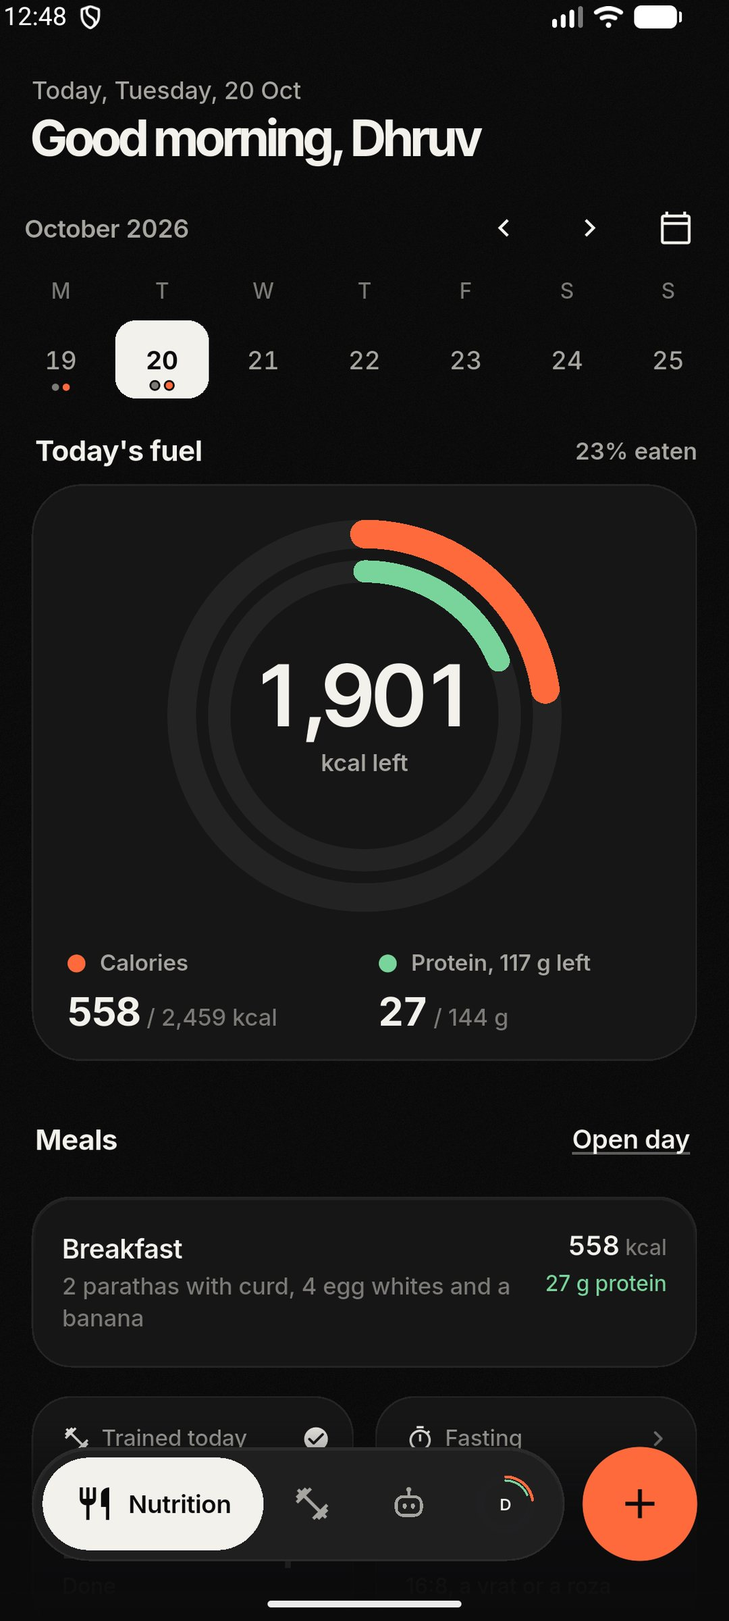
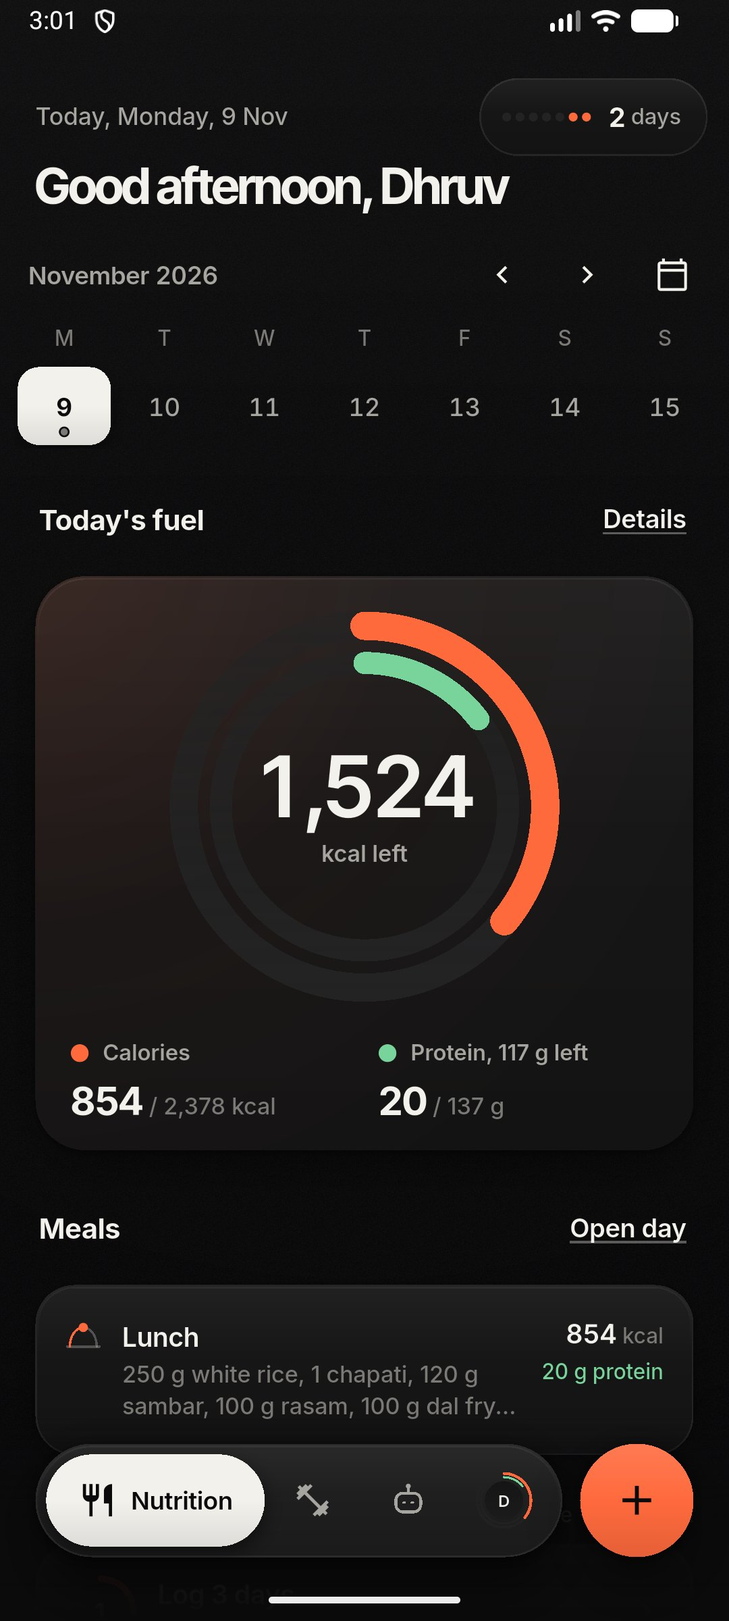
site: snap and add-meal shots from a real phone, beta 10 rebuilt
New Snap a meal screenshot beside the snap paragraph and in the press
kit; Add meal shot shows the Photo and Barcode pills; press home image
matches the site. APKs rebuilt with the pill and roti fixes, checksums
updated.

diff --git a/site/index.html b/site/index.html
@@ -46,7 +46,7 @@
 <link rel="stylesheet" href="assets/css/site.css">
 <link rel="preload" as="image" href="assets/img/app-home-540.webp" imagesrcset="assets/img/app-home-540.webp 540w, assets/img/app-home-810.webp 810w" imagesizes="(min-width: 760px) 26vw, 300px" fetchpriority="high">
 <script>(function(d){d.classList.add('js');try{if(sessionStorage.getItem('kx-wipe')){sessionStorage.removeItem('kx-wipe');if(!matchMedia('(prefers-reduced-motion: reduce)').matches)d.classList.add('wiping')}}catch(e){}})(document.documentElement)</script>
-<script type="application/ld+json">{"@context":"https://schema.org","@graph":[{"@type":"Organization","@id":"https://dhruvgupta-24.github.io/Kynetix/#org","name":"Kynetix","url":"https://dhruvgupta-24.github.io/Kynetix/","logo":{"@type":"ImageObject","url":"https://dhruvgupta-24.github.io/Kynetix/assets/img/icon-512.png","width":512,"height":512},"email":"kynetix.app@gmail.com","founder":{"@id":"https://dhruvgupta-24.github.io/Kynetix/#founder"},"sameAs":["https://github.com/dhruvgupta-24/Kynetix"],"contactPoint":{"@type":"ContactPoint","email":"kynetix.app@gmail.com","contactType":"customer support","availableLanguage":["English"]}},{"@type":"Person","@id":"https://dhruvgupta-24.github.io/Kynetix/#founder","name":"Dhruv Gupta","jobTitle":"Founder and developer","worksFor":{"@id":"https://dhruvgupta-24.github.io/Kynetix/#org"},"homeLocation":{"@type":"Country","name":"India"}},{"@type":"WebSite","@id":"https://dhruvgupta-24.github.io/Kynetix/#website","url":"https://dhruvgupta-24.github.io/Kynetix/","name":"Kynetix","inLanguage":"en-IN","description":"Official website of Kynetix, an Android calorie and workout tracker built for Indian food.","publisher":{"@id":"https://dhruvgupta-24.github.io/Kynetix/#org"}},{"@type":"MobileApplication","@id":"https://dhruvgupta-24.github.io/Kynetix/#app","name":"Kynetix","url":"https://dhruvgupta-24.github.io/Kynetix/","description":"Kynetix is an Android app for calorie, protein and workout tracking, built around Indian food. You log meals in plain words like \"2 roti and dal\", log your sets and personal records, and ask Kyno, an AI coach that reads both. It is free during early access, has no ads, and is made in India by Dhruv Gupta.","operatingSystem":"Android","applicationCategory":"HealthApplication","applicationSubCategory":"Calorie counter and workout tracker","inLanguage":"en-IN","image":"https://dhruvgupta-24.github.io/Kynetix/assets/img/og-home.png","screenshot":["https://dhruvgupta-24.github.io/Kynetix/assets/press/kynetix-home.jpg","https://dhruvgupta-24.github.io/Kynetix/assets/press/kynetix-meal.jpg","https://dhruvgupta-24.github.io/Kynetix/assets/press/kynetix-workout.jpg","https://dhruvgupta-24.github.io/Kynetix/assets/press/kynetix-kyno-answer.jpg","https://dhruvgupta-24.github.io/Kynetix/assets/press/kynetix-train.jpg","https://dhruvgupta-24.github.io/Kynetix/assets/press/kynetix-done.jpg"],"featureList":["Log Indian meals in plain words","Barcode scanning with Open Food Facts","Calorie and protein targets that follow training days","Adaptive targets that learn your real maintenance from your weight trend (opt in)","Workout logging with sets, reps, supersets, warm-ups, a plate calculator, rest timers and personal records","Kyno, an AI coach that reads meals and workouts","Fasting timer, micronutrients and a smoothed weight trend","Health Connect: steps, weight, sleep and HRV, read only","Home screen widgets in four sizes","Share cards for finished sessions","Export all your data as JSON and CSV","Import workouts from Strong or Hevy","Works offline, backs up to the cloud"],"offers":{"@type":"Offer","price":"0","priceCurrency":"INR","availability":"https://schema.org/InStock","description":"Free during early access. Android beta available to download now; Google Play coming soon."},"downloadUrl":"https://github.com/dhruvgupta-24/Kynetix/releases/download/v1.0.0-beta.10/kynetix-1.0.0-beta.10-arm64-v8a.apk","installUrl":"https://dhruvgupta-24.github.io/Kynetix/download/","softwareVersion":"1.0.0-beta.10","fileSize":"41.2 MB","datePublished":"2026-11-09","releaseNotes":"Snap a meal: point at your plate and Kyno names each food and sizes it. Teen requests use only AI services that allow teens, with extra safety rules: no dieting, fasting or supplement advice. Kynetix is open to everyone 13 and up; under 18, a parent says yes through a link first. Install right over your current app. No need to uninstall; your data stays put.","author":{"@id":"https://dhruvgupta-24.github.io/Kynetix/#founder"},"publisher":{"@id":"https://dhruvgupta-24.github.io/Kynetix/#org"},"countriesSupported":"IN"},{"@type":"WebPage","@id":"https://dhruvgupta-24.github.io/Kynetix/#webpage","url":"https://dhruvgupta-24.github.io/Kynetix/","name":"Kynetix: Indian Calorie Counter and Workout Tracker App","description":"Kynetix is an Android calorie and workout tracker built for Indian food. Log meals in plain words, track sets and PRs, and ask Kyno, an AI coach. Free.","inLanguage":"en-IN","isPartOf":{"@id":"https://dhruvgupta-24.github.io/Kynetix/#website"},"about":{"@id":"https://dhruvgupta-24.github.io/Kynetix/#app"},"primaryImageOfPage":{"@type":"ImageObject","url":"https://dhruvgupta-24.github.io/Kynetix/assets/img/og-home.png","width":1200,"height":630},"dateModified":"2026-11-06"},{"@type":"FAQPage","@id":"https://dhruvgupta-24.github.io/Kynetix/#faq","url":"https://dhruvgupta-24.github.io/Kynetix/#faq","inLanguage":"en-IN","isPartOf":{"@id":"https://dhruvgupta-24.github.io/Kynetix/#webpage"},"mainEntity":[{"@type":"Question","name":"How do I count calories in Indian food like dal and roti?","acceptedAnswer":{"@type":"Answer","text":"Type the meal the way you would say it, for example \"2 roti, 1 katori dal, aloo sabzi\", and Kynetix estimates the calories and protein for each item. Indian portions like katori, roti, bowl and plate are understood, and once you correct a portion it remembers how you eat it."}},{"@type":"Question","name":"Is Kynetix free?","acceptedAnswer":{"@type":"Answer","text":"Yes. Kynetix is free during early access, with no ads, and your data is never sold."}},{"@type":"Question","name":"What is Kyno?","acceptedAnswer":{"@type":"Answer","text":"Kyno is the AI coach inside Kynetix. It reads your recent meals, workouts, steps and weight, then answers questions like what to eat to hit your protein today or how your week is going. Its numbers are estimates and it is not a doctor."}},{"@type":"Question","name":"Does Kynetix work with Health Connect?","acceptedAnswer":{"@type":"Answer","text":"Yes. With your permission, Kynetix reads steps, weight, sleep and heart rate variability (HRV) from Health Connect on Android to keep your targets honest. It is read only and never writes to Health Connect."}},{"@type":"Question","name":"Can Kynetix log meals from a photo?","acceptedAnswer":{"@type":"Answer","text":"You can send Kyno a photo of your plate or a menu and ask what fits your day. For logging, typing the meal in plain words or scanning a barcode is the quickest and most accurate route, and photos you send are not stored."}},{"@type":"Question","name":"Can I scan barcodes on packaged food?","acceptedAnswer":{"@type":"Answer","text":"Yes. Scan the barcode and Kynetix looks the product up on Open Food Facts, so you log the exact pack. You can also save your own products and quick-add meals you eat often."}},{"@type":"Question","name":"Does Kynetix track workouts and personal records?","acceptedAnswer":{"@type":"Answer","text":"Yes. Log sets, reps and weight with rest timers, supersets, warm-up sets and a plate calculator, follow a split like push pull legs, and Kynetix spots personal records as you lift. Exercises you create stay in your library. Kyno suggests the next weight from your own history."}},{"@type":"Question","name":"Do my calorie targets adjust to my weight?","acceptedAnswer":{"@type":"Answer","text":"If you want them to. Switch on Adapt to my weight trend in Settings and Kynetix learns your real maintenance calories from what you log and your weigh-ins. It blends that with the formula by how much data you have, keeps it within 30% of the formula, moves at most once a week and tells you why in plain words."}},{"@type":"Question","name":"Can I export my data, or bring my workouts from Strong or Hevy?","acceptedAnswer":{"@type":"Answer","text":"Yes. Settings > Export my data gives you one JSON file with everything, plus CSV files for meals, workouts and weight. You can also import workouts from a Strong or Hevy CSV export: pounds are converted, exercises Kynetix doesn't know become your own custom exercises, and importing the same file twice doesn't duplicate anything."}},{"@type":"Question","name":"Does Kynetix work offline?","acceptedAnswer":{"@type":"Answer","text":"Yes. Everything saves on your phone first, so logging works without a signal. When you are back online it backs up to the cloud, and workouts that haven't synced yet keep retrying until they land."}},{"@type":"Question","name":"Does Kynetix have home screen widgets?","acceptedAnswer":{"@type":"Answer","text":"Yes. There are four Android home screen widgets, 2x2, 4x2, 2x4 and 4x4, showing the calories and protein you have left, with macros and a Log meal button on the larger sizes."}},{"@type":"Question","name":"Is my data private, and can I delete my account?","acceptedAnswer":{"@type":"Answer","text":"Yes. There are no ads, no data selling and no third-party trackers or analytics; simple usage stats stay in Kynetix's own database. You can export everything from Settings > Export my data, and delete your account and all of its data from inside the app at any time, or by email using the delete account page."}},{"@type":"Question","name":"Is Kynetix available on iPhone?","acceptedAnswer":{"@type":"Answer","text":"Not yet. Kynetix is Android first, and an iPhone version is on the roadmap with no date yet."}},{"@type":"Question","name":"Can I download Kynetix now?","acceptedAnswer":{"@type":"Answer","text":"Yes. The Android beta is free to download from the Kynetix download page as an APK, with step-by-step install instructions. Google Play is coming soon; when it arrives, you sign in with the same account and everything is there."}},{"@type":"Question","name":"When will Kynetix be on Google Play?","acceptedAnswer":{"@type":"Answer","text":"Soon, with no public date yet. Until then, the Android beta installs from the Kynetix download page, and the app tells you when the Play version is live."}},{"@type":"Question","name":"Who makes Kynetix?","acceptedAnswer":{"@type":"Answer","text":"Kynetix is made by Dhruv Gupta, an independent developer in India. You can reach him at kynetix.app@gmail.com, or from inside the app under Profile > Talk to us."}}]}]}</script>
+<script type="application/ld+json">{"@context":"https://schema.org","@graph":[{"@type":"Organization","@id":"https://dhruvgupta-24.github.io/Kynetix/#org","name":"Kynetix","url":"https://dhruvgupta-24.github.io/Kynetix/","logo":{"@type":"ImageObject","url":"https://dhruvgupta-24.github.io/Kynetix/assets/img/icon-512.png","width":512,"height":512},"email":"kynetix.app@gmail.com","founder":{"@id":"https://dhruvgupta-24.github.io/Kynetix/#founder"},"sameAs":["https://github.com/dhruvgupta-24/Kynetix"],"contactPoint":{"@type":"ContactPoint","email":"kynetix.app@gmail.com","contactType":"customer support","availableLanguage":["English"]}},{"@type":"Person","@id":"https://dhruvgupta-24.github.io/Kynetix/#founder","name":"Dhruv Gupta","jobTitle":"Founder and developer","worksFor":{"@id":"https://dhruvgupta-24.github.io/Kynetix/#org"},"homeLocation":{"@type":"Country","name":"India"}},{"@type":"WebSite","@id":"https://dhruvgupta-24.github.io/Kynetix/#website","url":"https://dhruvgupta-24.github.io/Kynetix/","name":"Kynetix","inLanguage":"en-IN","description":"Official website of Kynetix, an Android calorie and workout tracker built for Indian food.","publisher":{"@id":"https://dhruvgupta-24.github.io/Kynetix/#org"}},{"@type":"MobileApplication","@id":"https://dhruvgupta-24.github.io/Kynetix/#app","name":"Kynetix","url":"https://dhruvgupta-24.github.io/Kynetix/","description":"Kynetix is an Android app for calorie, protein and workout tracking, built around Indian food. You log meals in plain words like \"2 roti and dal\", log your sets and personal records, and ask Kyno, an AI coach that reads both. It is free during early access, has no ads, and is made in India by Dhruv Gupta.","operatingSystem":"Android","applicationCategory":"HealthApplication","applicationSubCategory":"Calorie counter and workout tracker","inLanguage":"en-IN","image":"https://dhruvgupta-24.github.io/Kynetix/assets/img/og-home.png","screenshot":["https://dhruvgupta-24.github.io/Kynetix/assets/press/kynetix-home.jpg","https://dhruvgupta-24.github.io/Kynetix/assets/press/kynetix-meal.jpg","https://dhruvgupta-24.github.io/Kynetix/assets/press/kynetix-snap.jpg","https://dhruvgupta-24.github.io/Kynetix/assets/press/kynetix-workout.jpg","https://dhruvgupta-24.github.io/Kynetix/assets/press/kynetix-kyno-answer.jpg","https://dhruvgupta-24.github.io/Kynetix/assets/press/kynetix-train.jpg","https://dhruvgupta-24.github.io/Kynetix/assets/press/kynetix-done.jpg"],"featureList":["Log Indian meals in plain words","Barcode scanning with Open Food Facts","Calorie and protein targets that follow training days","Adaptive targets that learn your real maintenance from your weight trend (opt in)","Workout logging with sets, reps, supersets, warm-ups, a plate calculator, rest timers and personal records","Kyno, an AI coach that reads meals and workouts","Fasting timer, micronutrients and a smoothed weight trend","Health Connect: steps, weight, sleep and HRV, read only","Home screen widgets in four sizes","Share cards for finished sessions","Export all your data as JSON and CSV","Import workouts from Strong or Hevy","Works offline, backs up to the cloud"],"offers":{"@type":"Offer","price":"0","priceCurrency":"INR","availability":"https://schema.org/InStock","description":"Free during early access. Android beta available to download now; Google Play coming soon."},"downloadUrl":"https://github.com/dhruvgupta-24/Kynetix/releases/download/v1.0.0-beta.10/kynetix-1.0.0-beta.10-arm64-v8a.apk","installUrl":"https://dhruvgupta-24.github.io/Kynetix/download/","softwareVersion":"1.0.0-beta.10","fileSize":"41.2 MB","datePublished":"2026-11-09","releaseNotes":"Snap a meal: point at your plate and Kyno names each food and sizes it. Teen requests use only AI services that allow teens, with extra safety rules: no dieting, fasting or supplement advice. Kynetix is open to everyone 13 and up; under 18, a parent says yes through a link first. Install right over your current app. No need to uninstall; your data stays put.","author":{"@id":"https://dhruvgupta-24.github.io/Kynetix/#founder"},"publisher":{"@id":"https://dhruvgupta-24.github.io/Kynetix/#org"},"countriesSupported":"IN"},{"@type":"WebPage","@id":"https://dhruvgupta-24.github.io/Kynetix/#webpage","url":"https://dhruvgupta-24.github.io/Kynetix/","name":"Kynetix: Indian Calorie Counter and Workout Tracker App","description":"Kynetix is an Android calorie and workout tracker built for Indian food. Log meals in plain words, track sets and PRs, and ask Kyno, an AI coach. Free.","inLanguage":"en-IN","isPartOf":{"@id":"https://dhruvgupta-24.github.io/Kynetix/#website"},"about":{"@id":"https://dhruvgupta-24.github.io/Kynetix/#app"},"primaryImageOfPage":{"@type":"ImageObject","url":"https://dhruvgupta-24.github.io/Kynetix/assets/img/og-home.png","width":1200,"height":630},"dateModified":"2026-11-06"},{"@type":"FAQPage","@id":"https://dhruvgupta-24.github.io/Kynetix/#faq","url":"https://dhruvgupta-24.github.io/Kynetix/#faq","inLanguage":"en-IN","isPartOf":{"@id":"https://dhruvgupta-24.github.io/Kynetix/#webpage"},"mainEntity":[{"@type":"Question","name":"How do I count calories in Indian food like dal and roti?","acceptedAnswer":{"@type":"Answer","text":"Type the meal the way you would say it, for example \"2 roti, 1 katori dal, aloo sabzi\", and Kynetix estimates the calories and protein for each item. Indian portions like katori, roti, bowl and plate are understood, and once you correct a portion it remembers how you eat it."}},{"@type":"Question","name":"Is Kynetix free?","acceptedAnswer":{"@type":"Answer","text":"Yes. Kynetix is free during early access, with no ads, and your data is never sold."}},{"@type":"Question","name":"What is Kyno?","acceptedAnswer":{"@type":"Answer","text":"Kyno is the AI coach inside Kynetix. It reads your recent meals, workouts, steps and weight, then answers questions like what to eat to hit your protein today or how your week is going. Its numbers are estimates and it is not a doctor."}},{"@type":"Question","name":"Does Kynetix work with Health Connect?","acceptedAnswer":{"@type":"Answer","text":"Yes. With your permission, Kynetix reads steps, weight, sleep and heart rate variability (HRV) from Health Connect on Android to keep your targets honest. It is read only and never writes to Health Connect."}},{"@type":"Question","name":"Can Kynetix log meals from a photo?","acceptedAnswer":{"@type":"Answer","text":"You can send Kyno a photo of your plate or a menu and ask what fits your day. For logging, typing the meal in plain words or scanning a barcode is the quickest and most accurate route, and photos you send are not stored."}},{"@type":"Question","name":"Can I scan barcodes on packaged food?","acceptedAnswer":{"@type":"Answer","text":"Yes. Scan the barcode and Kynetix looks the product up on Open Food Facts, so you log the exact pack. You can also save your own products and quick-add meals you eat often."}},{"@type":"Question","name":"Does Kynetix track workouts and personal records?","acceptedAnswer":{"@type":"Answer","text":"Yes. Log sets, reps and weight with rest timers, supersets, warm-up sets and a plate calculator, follow a split like push pull legs, and Kynetix spots personal records as you lift. Exercises you create stay in your library. Kyno suggests the next weight from your own history."}},{"@type":"Question","name":"Do my calorie targets adjust to my weight?","acceptedAnswer":{"@type":"Answer","text":"If you want them to. Switch on Adapt to my weight trend in Settings and Kynetix learns your real maintenance calories from what you log and your weigh-ins. It blends that with the formula by how much data you have, keeps it within 30% of the formula, moves at most once a week and tells you why in plain words."}},{"@type":"Question","name":"Can I export my data, or bring my workouts from Strong or Hevy?","acceptedAnswer":{"@type":"Answer","text":"Yes. Settings > Export my data gives you one JSON file with everything, plus CSV files for meals, workouts and weight. You can also import workouts from a Strong or Hevy CSV export: pounds are converted, exercises Kynetix doesn't know become your own custom exercises, and importing the same file twice doesn't duplicate anything."}},{"@type":"Question","name":"Does Kynetix work offline?","acceptedAnswer":{"@type":"Answer","text":"Yes. Everything saves on your phone first, so logging works without a signal. When you are back online it backs up to the cloud, and workouts that haven't synced yet keep retrying until they land."}},{"@type":"Question","name":"Does Kynetix have home screen widgets?","acceptedAnswer":{"@type":"Answer","text":"Yes. There are four Android home screen widgets, 2x2, 4x2, 2x4 and 4x4, showing the calories and protein you have left, with macros and a Log meal button on the larger sizes."}},{"@type":"Question","name":"Is my data private, and can I delete my account?","acceptedAnswer":{"@type":"Answer","text":"Yes. There are no ads, no data selling and no third-party trackers or analytics; simple usage stats stay in Kynetix's own database. You can export everything from Settings > Export my data, and delete your account and all of its data from inside the app at any time, or by email using the delete account page."}},{"@type":"Question","name":"Is Kynetix available on iPhone?","acceptedAnswer":{"@type":"Answer","text":"Not yet. Kynetix is Android first, and an iPhone version is on the roadmap with no date yet."}},{"@type":"Question","name":"Can I download Kynetix now?","acceptedAnswer":{"@type":"Answer","text":"Yes. The Android beta is free to download from the Kynetix download page as an APK, with step-by-step install instructions. Google Play is coming soon; when it arrives, you sign in with the same account and everything is there."}},{"@type":"Question","name":"When will Kynetix be on Google Play?","acceptedAnswer":{"@type":"Answer","text":"Soon, with no public date yet. Until then, the Android beta installs from the Kynetix download page, and the app tells you when the Play version is live."}},{"@type":"Question","name":"Who makes Kynetix?","acceptedAnswer":{"@type":"Answer","text":"Kynetix is made by Dhruv Gupta, an independent developer in India. You can reach him at kynetix.app@gmail.com, or from inside the app under Profile > Talk to us."}}]}]}</script>
 </head>
 <body>
 <svg width="0" height="0" style="position:absolute" aria-hidden="true" focusable="false"><defs>
@@ -104,7 +104,7 @@
 <div class="tour-bars" aria-hidden="true"><i></i><i></i><i></i><i></i><i></i></div>
 <div class="tour-tilt"><div class="phone tour-phone"><div class="screen">
 <figure class="tsl on" role="group" aria-roledescription="slide" aria-label="1 of 5" data-cap="Home|Your whole day, one glance."><img class="h-t" src="assets/img/app-home-540.webp" width="540" height="1152" alt="The Kynetix home screen: Good afternoon, Dhruv, with 1,524 kcal left of 2,378 and protein for the day." decoding="async"><img class="h-b" src="assets/img/app-home-540.webp" width="540" height="1152" alt="" aria-hidden="true" decoding="async"></figure>
-<figure class="tsl" role="group" aria-roledescription="slide" aria-label="2 of 5" data-cap="Food|Type it like you say it."><img class="h-t" src="assets/img/app-meal-540.webp" width="540" height="1152" alt="Adding breakfast in plain words: 2 parathas with curd, 4 egg whites and a banana, estimated at 558 kcal and 26.7 g of protein." loading="lazy" decoding="async"><img class="h-b" src="assets/img/app-meal-540.webp" width="540" height="1152" alt="" aria-hidden="true" loading="lazy" decoding="async"></figure>
+<figure class="tsl" role="group" aria-roledescription="slide" aria-label="2 of 5" data-cap="Food|Type it like you say it."><img class="h-t" src="assets/img/app-meal-540.webp" width="540" height="1152" alt="Adding breakfast in plain words: 2 aloo parathas with curd, 2 boiled eggs and a banana, estimated at 875 kcal and 28.4 g of protein." loading="lazy" decoding="async"><img class="h-b" src="assets/img/app-meal-540.webp" width="540" height="1152" alt="" aria-hidden="true" loading="lazy" decoding="async"></figure>
 <figure class="tsl" role="group" aria-roledescription="slide" aria-label="3 of 5" data-cap="Train|Every set, one tap."><img class="h-t" src="assets/img/app-workout-540.webp" width="540" height="1152" alt="A workout in progress: Close Grip Seated Cable Row, 40 kg for 11 reps, with Kyno's suggestion." loading="lazy" decoding="async"><img class="h-b" src="assets/img/app-workout-540.webp" width="540" height="1152" alt="" aria-hidden="true" loading="lazy" decoding="async"></figure>
 <figure class="tsl" role="group" aria-roledescription="slide" aria-label="4 of 5" data-cap="Kyno|A coach that already read your week."><img class="h-t" src="assets/img/app-kyno-answer-540.webp" width="540" height="1152" alt="Kyno answering Is my diet slipping this week, from the logged meals." loading="lazy" decoding="async"><img class="h-b" src="assets/img/app-kyno-answer-540.webp" width="540" height="1152" alt="" aria-hidden="true" loading="lazy" decoding="async"></figure>
 <figure class="tsl" role="group" aria-roledescription="slide" aria-label="5 of 5" data-cap="Share|Session done. Post the damage."><img class="h-t" src="assets/img/app-done-540.webp" width="540" height="1152" alt="Session saved: Back and Biceps, 2 new bests, 3,370 kg moved over 7 sets." loading="lazy" decoding="async"><img class="h-b" src="assets/img/app-done-540.webp" width="540" height="1152" alt="" aria-hidden="true" loading="lazy" decoding="async"></figure>
@@ -155,7 +155,7 @@
 <p class="plate-note">Real numbers from the food table inside Kynetix. Rings fill against Dhruv's day: 2,459 kcal and 144 g protein.</p>
 </div>
 <p data-reveal>No time to type? Snap the plate. Kyno names each food, sizes the portions, and you log it in one tap. Packaged? Scan the barcode and log the exact pack. Fix a portion once and Kynetix remembers how you eat it.</p>
-<div class="inline-shot"><div class="phone"><div class="screen"><img src="assets/img/app-meal-540.webp" width="540" height="1152" alt="Adding to breakfast in Kynetix: 2 parathas with curd, 4 egg whites and a banana typed in plain words, estimated at 558 kcal and 26.7 g of protein with high confidence, with ingredients you can adjust." loading="lazy" decoding="async"></div></div></div>
+<div class="inline-shot"><div class="phone"><div class="screen"><img src="assets/img/app-snap-540.webp" srcset="assets/img/app-snap-540.webp 540w, assets/img/app-snap-810.webp 810w" sizes="300px" width="540" height="1152" alt="Snap a meal in Kynetix: a photo of a thali read as an Indian thali with rice and curries, 953 kcal, with gulab jamun, chana curry, dal and vegetable curry listed and the less certain ones marked, ready to log to lunch." loading="lazy" decoding="async"></div></div></div>
 </article>
 
 <article class="chapter" id="training" data-screen="1">
@@ -200,7 +200,7 @@
 
 </div>
 <div class="stick"><div class="stick-inner"><div class="phone tilt"><div class="screen screens">
-<div class="scr on"><img class="h-t" src="assets/img/app-meal-540.webp" width="540" height="1152" alt="Adding to breakfast in Kynetix: 2 parathas with curd, 4 egg whites and a banana typed in plain words, estimated at 558 kcal and 26.7 g of protein with high confidence." loading="lazy" decoding="async"><img class="h-b" src="assets/img/app-meal-540.webp" width="540" height="1152" alt="" aria-hidden="true" loading="lazy" decoding="async"></div>
+<div class="scr on"><img class="h-t" src="assets/img/app-meal-540.webp" width="540" height="1152" alt="Adding to breakfast in Kynetix: 2 aloo parathas with curd, 2 boiled eggs and a banana typed in plain words, estimated at 875 kcal and 28.4 g of protein with high confidence, with Photo and Barcode one tap away." loading="lazy" decoding="async"><img class="h-b" src="assets/img/app-meal-540.webp" width="540" height="1152" alt="" aria-hidden="true" loading="lazy" decoding="async"></div>
 <div class="scr"><img class="h-t" src="assets/img/app-workout-540.webp" width="540" height="1152" alt="A workout in progress: Close Grip Seated Cable Row, 40 kg for 11 reps, with Kyno's suggestion of 40 kg for 11." loading="lazy" decoding="async"><img class="h-b" src="assets/img/app-workout-540.webp" width="540" height="1152" alt="" aria-hidden="true" loading="lazy" decoding="async"></div>
 <div class="scr"><img class="h-t" src="assets/img/app-train-540.webp" width="540" height="1152" alt="The Train screen: Back and Biceps done for today, a week strip and totals for kilos lifted, sets and streak." loading="lazy" decoding="async"><img class="h-b" src="assets/img/app-train-540.webp" width="540" height="1152" alt="" aria-hidden="true" loading="lazy" decoding="async"></div>
 <div class="scr"><img class="h-t" src="assets/img/app-home-540.webp" width="540" height="1152" alt="The Kynetix home screen: Good afternoon, Dhruv, with 1,524 kcal left of 2,378 and protein for the day." loading="lazy" decoding="async"><img class="h-b" src="assets/img/app-home-540.webp" width="540" height="1152" alt="" aria-hidden="true" loading="lazy" decoding="async"></div>

diff --git a/site/download/index.html b/site/download/index.html
@@ -36,7 +36,7 @@
 <link rel="preload" href="../assets/fonts/inter-400.woff2" as="font" type="font/woff2" crossorigin>
 <link rel="stylesheet" href="../assets/css/site.css">
 <script>(function(d){d.classList.add('js');try{if(sessionStorage.getItem('kx-wipe')){sessionStorage.removeItem('kx-wipe');if(!matchMedia('(prefers-reduced-motion: reduce)').matches)d.classList.add('wiping')}}catch(e){}})(document.documentElement)</script>
-<script type="application/ld+json">{"@context":"https://schema.org","@graph":[{"@type":"Organization","@id":"https://dhruvgupta-24.github.io/Kynetix/#org","name":"Kynetix","url":"https://dhruvgupta-24.github.io/Kynetix/","logo":{"@type":"ImageObject","url":"https://dhruvgupta-24.github.io/Kynetix/assets/img/icon-512.png","width":512,"height":512},"email":"kynetix.app@gmail.com","founder":{"@id":"https://dhruvgupta-24.github.io/Kynetix/#founder"},"sameAs":["https://github.com/dhruvgupta-24/Kynetix"],"contactPoint":{"@type":"ContactPoint","email":"kynetix.app@gmail.com","contactType":"customer support","availableLanguage":["English"]}},{"@type":"Person","@id":"https://dhruvgupta-24.github.io/Kynetix/#founder","name":"Dhruv Gupta","jobTitle":"Founder and developer","worksFor":{"@id":"https://dhruvgupta-24.github.io/Kynetix/#org"},"homeLocation":{"@type":"Country","name":"India"}},{"@type":"WebSite","@id":"https://dhruvgupta-24.github.io/Kynetix/#website","url":"https://dhruvgupta-24.github.io/Kynetix/","name":"Kynetix","inLanguage":"en-IN","description":"Official website of Kynetix, an Android calorie and workout tracker built for Indian food.","publisher":{"@id":"https://dhruvgupta-24.github.io/Kynetix/#org"}},{"@type":"WebPage","@id":"https://dhruvgupta-24.github.io/Kynetix/download/#webpage","url":"https://dhruvgupta-24.github.io/Kynetix/download/","name":"Download Kynetix for Android (Free Beta APK) | Kynetix","description":"Download the free Kynetix Android beta: the APK, how to install it step by step, SHA-256 checksums, and what happens when it arrives on Google Play.","inLanguage":"en-IN","isPartOf":{"@id":"https://dhruvgupta-24.github.io/Kynetix/#website"},"about":{"@id":"https://dhruvgupta-24.github.io/Kynetix/#app"},"breadcrumb":{"@id":"https://dhruvgupta-24.github.io/Kynetix/download/#breadcrumb"},"primaryImageOfPage":{"@type":"ImageObject","url":"https://dhruvgupta-24.github.io/Kynetix/assets/img/og-download.png","width":1200,"height":630},"dateModified":"2026-11-06"},{"@type":"BreadcrumbList","@id":"https://dhruvgupta-24.github.io/Kynetix/download/#breadcrumb","itemListElement":[{"@type":"ListItem","position":1,"name":"Kynetix","item":"https://dhruvgupta-24.github.io/Kynetix/"},{"@type":"ListItem","position":2,"name":"Download","item":"https://dhruvgupta-24.github.io/Kynetix/download/"}]},{"@type":"MobileApplication","@id":"https://dhruvgupta-24.github.io/Kynetix/#app","name":"Kynetix","url":"https://dhruvgupta-24.github.io/Kynetix/","description":"Kynetix is an Android app for calorie, protein and workout tracking, built around Indian food. You log meals in plain words like \"2 roti and dal\", log your sets and personal records, and ask Kyno, an AI coach that reads both. It is free during early access, has no ads, and is made in India by Dhruv Gupta.","operatingSystem":"Android","applicationCategory":"HealthApplication","applicationSubCategory":"Calorie counter and workout tracker","inLanguage":"en-IN","image":"https://dhruvgupta-24.github.io/Kynetix/assets/img/og-home.png","screenshot":["https://dhruvgupta-24.github.io/Kynetix/assets/press/kynetix-home.jpg","https://dhruvgupta-24.github.io/Kynetix/assets/press/kynetix-meal.jpg","https://dhruvgupta-24.github.io/Kynetix/assets/press/kynetix-workout.jpg","https://dhruvgupta-24.github.io/Kynetix/assets/press/kynetix-kyno-answer.jpg","https://dhruvgupta-24.github.io/Kynetix/assets/press/kynetix-train.jpg","https://dhruvgupta-24.github.io/Kynetix/assets/press/kynetix-done.jpg"],"featureList":["Log Indian meals in plain words","Barcode scanning with Open Food Facts","Calorie and protein targets that follow training days","Adaptive targets that learn your real maintenance from your weight trend (opt in)","Workout logging with sets, reps, supersets, warm-ups, a plate calculator, rest timers and personal records","Kyno, an AI coach that reads meals and workouts","Fasting timer, micronutrients and a smoothed weight trend","Health Connect: steps, weight, sleep and HRV, read only","Home screen widgets in four sizes","Share cards for finished sessions","Export all your data as JSON and CSV","Import workouts from Strong or Hevy","Works offline, backs up to the cloud"],"offers":{"@type":"Offer","price":"0","priceCurrency":"INR","availability":"https://schema.org/InStock","description":"Free during early access. Android beta available to download now; Google Play coming soon."},"downloadUrl":"https://github.com/dhruvgupta-24/Kynetix/releases/download/v1.0.0-beta.10/kynetix-1.0.0-beta.10-arm64-v8a.apk","installUrl":"https://dhruvgupta-24.github.io/Kynetix/download/","softwareVersion":"1.0.0-beta.10","fileSize":"41.2 MB","datePublished":"2026-11-09","releaseNotes":"Snap a meal: point at your plate and Kyno names each food and sizes it. Teen requests use only AI services that allow teens, with extra safety rules: no dieting, fasting or supplement advice. Kynetix is open to everyone 13 and up; under 18, a parent says yes through a link first. Install right over your current app. No need to uninstall; your data stays put.","author":{"@id":"https://dhruvgupta-24.github.io/Kynetix/#founder"},"publisher":{"@id":"https://dhruvgupta-24.github.io/Kynetix/#org"},"countriesSupported":"IN"}]}</script>
+<script type="application/ld+json">{"@context":"https://schema.org","@graph":[{"@type":"Organization","@id":"https://dhruvgupta-24.github.io/Kynetix/#org","name":"Kynetix","url":"https://dhruvgupta-24.github.io/Kynetix/","logo":{"@type":"ImageObject","url":"https://dhruvgupta-24.github.io/Kynetix/assets/img/icon-512.png","width":512,"height":512},"email":"kynetix.app@gmail.com","founder":{"@id":"https://dhruvgupta-24.github.io/Kynetix/#founder"},"sameAs":["https://github.com/dhruvgupta-24/Kynetix"],"contactPoint":{"@type":"ContactPoint","email":"kynetix.app@gmail.com","contactType":"customer support","availableLanguage":["English"]}},{"@type":"Person","@id":"https://dhruvgupta-24.github.io/Kynetix/#founder","name":"Dhruv Gupta","jobTitle":"Founder and developer","worksFor":{"@id":"https://dhruvgupta-24.github.io/Kynetix/#org"},"homeLocation":{"@type":"Country","name":"India"}},{"@type":"WebSite","@id":"https://dhruvgupta-24.github.io/Kynetix/#website","url":"https://dhruvgupta-24.github.io/Kynetix/","name":"Kynetix","inLanguage":"en-IN","description":"Official website of Kynetix, an Android calorie and workout tracker built for Indian food.","publisher":{"@id":"https://dhruvgupta-24.github.io/Kynetix/#org"}},{"@type":"WebPage","@id":"https://dhruvgupta-24.github.io/Kynetix/download/#webpage","url":"https://dhruvgupta-24.github.io/Kynetix/download/","name":"Download Kynetix for Android (Free Beta APK) | Kynetix","description":"Download the free Kynetix Android beta: the APK, how to install it step by step, SHA-256 checksums, and what happens when it arrives on Google Play.","inLanguage":"en-IN","isPartOf":{"@id":"https://dhruvgupta-24.github.io/Kynetix/#website"},"about":{"@id":"https://dhruvgupta-24.github.io/Kynetix/#app"},"breadcrumb":{"@id":"https://dhruvgupta-24.github.io/Kynetix/download/#breadcrumb"},"primaryImageOfPage":{"@type":"ImageObject","url":"https://dhruvgupta-24.github.io/Kynetix/assets/img/og-download.png","width":1200,"height":630},"dateModified":"2026-11-06"},{"@type":"BreadcrumbList","@id":"https://dhruvgupta-24.github.io/Kynetix/download/#breadcrumb","itemListElement":[{"@type":"ListItem","position":1,"name":"Kynetix","item":"https://dhruvgupta-24.github.io/Kynetix/"},{"@type":"ListItem","position":2,"name":"Download","item":"https://dhruvgupta-24.github.io/Kynetix/download/"}]},{"@type":"MobileApplication","@id":"https://dhruvgupta-24.github.io/Kynetix/#app","name":"Kynetix","url":"https://dhruvgupta-24.github.io/Kynetix/","description":"Kynetix is an Android app for calorie, protein and workout tracking, built around Indian food. You log meals in plain words like \"2 roti and dal\", log your sets and personal records, and ask Kyno, an AI coach that reads both. It is free during early access, has no ads, and is made in India by Dhruv Gupta.","operatingSystem":"Android","applicationCategory":"HealthApplication","applicationSubCategory":"Calorie counter and workout tracker","inLanguage":"en-IN","image":"https://dhruvgupta-24.github.io/Kynetix/assets/img/og-home.png","screenshot":["https://dhruvgupta-24.github.io/Kynetix/assets/press/kynetix-home.jpg","https://dhruvgupta-24.github.io/Kynetix/assets/press/kynetix-meal.jpg","https://dhruvgupta-24.github.io/Kynetix/assets/press/kynetix-snap.jpg","https://dhruvgupta-24.github.io/Kynetix/assets/press/kynetix-workout.jpg","https://dhruvgupta-24.github.io/Kynetix/assets/press/kynetix-kyno-answer.jpg","https://dhruvgupta-24.github.io/Kynetix/assets/press/kynetix-train.jpg","https://dhruvgupta-24.github.io/Kynetix/assets/press/kynetix-done.jpg"],"featureList":["Log Indian meals in plain words","Barcode scanning with Open Food Facts","Calorie and protein targets that follow training days","Adaptive targets that learn your real maintenance from your weight trend (opt in)","Workout logging with sets, reps, supersets, warm-ups, a plate calculator, rest timers and personal records","Kyno, an AI coach that reads meals and workouts","Fasting timer, micronutrients and a smoothed weight trend","Health Connect: steps, weight, sleep and HRV, read only","Home screen widgets in four sizes","Share cards for finished sessions","Export all your data as JSON and CSV","Import workouts from Strong or Hevy","Works offline, backs up to the cloud"],"offers":{"@type":"Offer","price":"0","priceCurrency":"INR","availability":"https://schema.org/InStock","description":"Free during early access. Android beta available to download now; Google Play coming soon."},"downloadUrl":"https://github.com/dhruvgupta-24/Kynetix/releases/download/v1.0.0-beta.10/kynetix-1.0.0-beta.10-arm64-v8a.apk","installUrl":"https://dhruvgupta-24.github.io/Kynetix/download/","softwareVersion":"1.0.0-beta.10","fileSize":"41.2 MB","datePublished":"2026-11-09","releaseNotes":"Snap a meal: point at your plate and Kyno names each food and sizes it. Teen requests use only AI services that allow teens, with extra safety rules: no dieting, fasting or supplement advice. Kynetix is open to everyone 13 and up; under 18, a parent says yes through a link first. Install right over your current app. No need to uninstall; your data stays put.","author":{"@id":"https://dhruvgupta-24.github.io/Kynetix/#founder"},"publisher":{"@id":"https://dhruvgupta-24.github.io/Kynetix/#org"},"countriesSupported":"IN"}]}</script>
 </head>
 <body>
 <svg width="0" height="0" style="position:absolute" aria-hidden="true" focusable="false"><defs>
@@ -103,8 +103,8 @@
 
 <h2 id="check">Check the file (optional)</h2>
 <p>Each build has a SHA-256 checksum. If the checksum of the file you downloaded matches, it is exactly the file we published.</p>
-<div class="sha"><p><b>arm64</b> <code data-v="sha256.arm64">52d76cc5f73e4c2e6e7142ab1949b2a0289b2698fe1e301a0eae0df3ff1fbf73</code> <button type="button" class="copy" data-copy="sha256.arm64">Copy</button></p>
-<p><b>armv7</b> <code data-v="sha256.armv7">dfd5451d5b6788932f36284b14b77765b0f2e6f3ab299bc3ef1b8b67dc881a7e</code> <button type="button" class="copy" data-copy="sha256.armv7">Copy</button></p></div>
+<div class="sha"><p><b>arm64</b> <code data-v="sha256.arm64">08efbb29e516d6d28bebd56ef9c48034e168bd02f3836b31b9c23fdb8914ef88</code> <button type="button" class="copy" data-copy="sha256.arm64">Copy</button></p>
+<p><b>armv7</b> <code data-v="sha256.armv7">df9bfe95ad1a6677ed6143669b7733233220d8c18df3025a3f8e9eaf11a58fda</code> <button type="button" class="copy" data-copy="sha256.armv7">Copy</button></p></div>
 <p>On a computer: <code>certutil -hashfile file.apk SHA256</code> (Windows) or <code>shasum -a 256 file.apk</code> (Mac and Linux). The full list is in <code>SHA256SUMS.txt</code> on the <a href="https://github.com/dhruvgupta-24/Kynetix/releases/latest">release page</a>.</p>
 
 <h2 id="safe">Is this safe?</h2>

diff --git a/site/about/index.html b/site/about/index.html
@@ -137,8 +137,9 @@
 <h2 id="screenshots">Screenshots</h2>
 <p>Real captures from the app, 1080 x 2400. Free to use when writing about Kynetix.</p>
 <ul class="press-shots">
-<li><a href="../assets/press/kynetix-home.jpg"><img src="../assets/img/app-home-540.webp" width="540" height="1152" alt="Kynetix home screen with 1,901 kcal left and today's meals." loading="lazy" decoding="async"><span>Home</span></a></li>
+<li><a href="../assets/press/kynetix-home.jpg"><img src="../assets/img/app-home-540.webp" width="540" height="1152" alt="Kynetix home screen: Good afternoon, Dhruv, with 1,524 kcal left, the logging streak and today's meals." loading="lazy" decoding="async"><span>Home</span></a></li>
 <li><a href="../assets/press/kynetix-meal.jpg"><img src="../assets/img/app-meal-540.webp" width="540" height="1152" alt="Logging a breakfast in plain words with calories and protein estimated." loading="lazy" decoding="async"><span>Log a meal</span></a></li>
+<li><a href="../assets/press/kynetix-snap.jpg"><img src="../assets/img/app-snap-540.webp" width="540" height="1152" alt="Snap a meal: a thali photo read into foods and portions, 953 kcal, ready to log." loading="lazy" decoding="async"><span>Snap a meal</span></a></li>
 <li><a href="../assets/press/kynetix-workout.jpg"><img src="../assets/img/app-workout-540.webp" width="540" height="1152" alt="A live workout set with weight and rep steppers and Kyno's suggestion." loading="lazy" decoding="async"><span>Workout</span></a></li>
 <li><a href="../assets/press/kynetix-kyno-answer.jpg"><img src="../assets/img/app-kyno-answer-540.webp" width="540" height="1152" alt="Kyno answering whether the diet is slipping this week." loading="lazy" decoding="async"><span>Kyno</span></a></li>
 <li><a href="../assets/press/kynetix-train.jpg"><img src="../assets/img/app-train-540.webp" width="540" height="1152" alt="The Train screen with the week's split and totals." loading="lazy" decoding="async"><span>Train</span></a></li>
